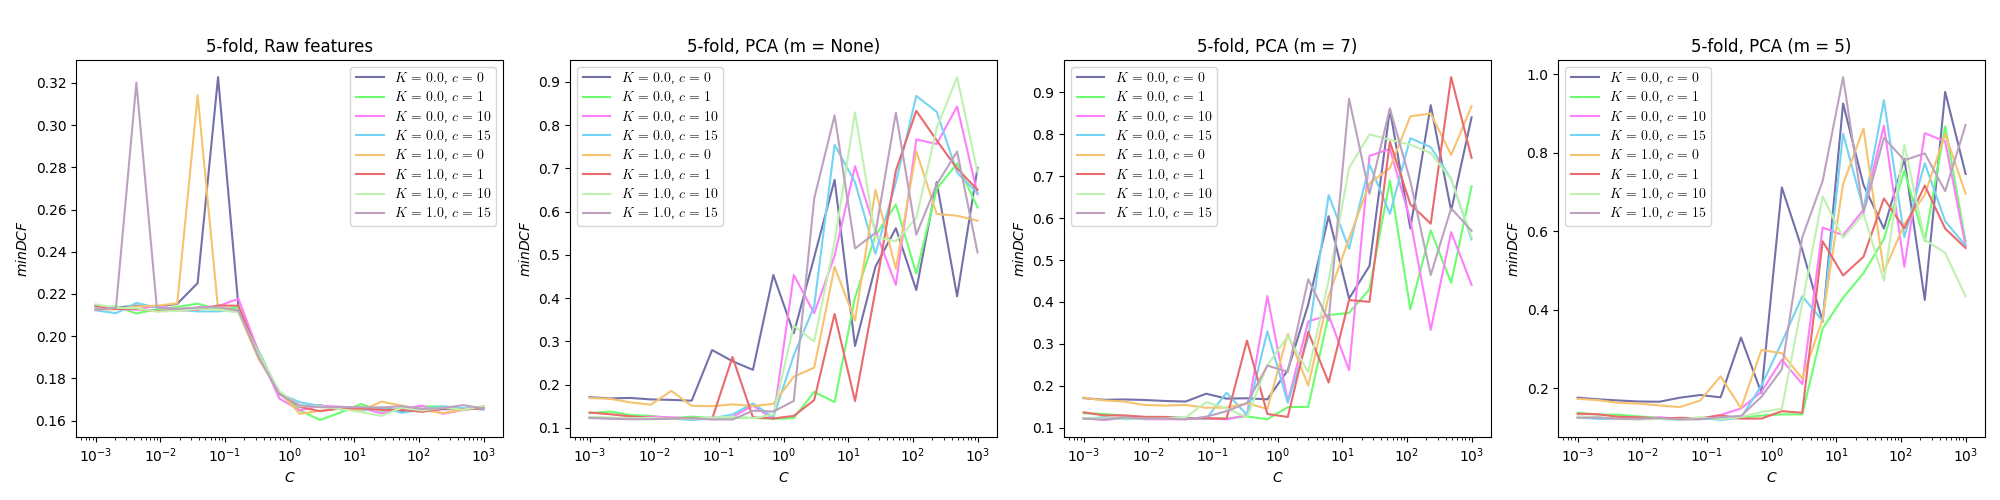
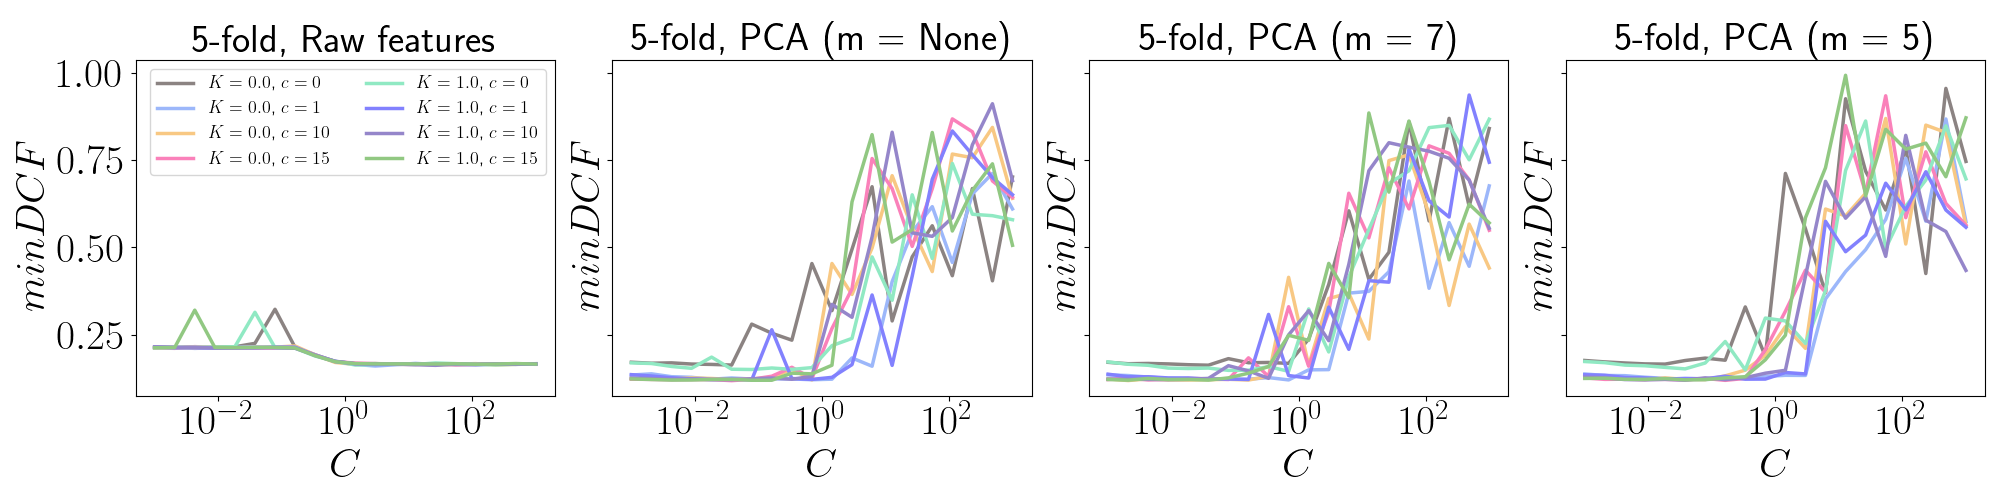
Minor changes + new plots

diff --git a/utils/plot_utils.py b/utils/plot_utils.py
@@ -196,31 +196,48 @@ def plot_tuningPolySVM():
     c_values = [0, 1, 10, 15]
 
     num_colors = len(K_values) * len(c_values)
-    colors = distinctipy.get_colors(num_colors, pastel_factor=0.7)
+    # colors = distinctipy.get_colors(num_colors, pastel_factor=0.7)
+
+    plt.rcParams.update({
+        "text.usetex": True,
+        "font.family": "sans-serif",
+        "font.sans-serif": ["Computer Modern Serif"],
+        "axes.titlesize": 28,
+        "axes.labelsize": 30,
+        "legend.fontsize": 13,
+        "xtick.labelsize": 30,
+        "ytick.labelsize": 30,
+    })
 
     i = 0
-    fig, axs = plt.subplots(1, 4)
-    # fig.suptitle('Poly SVM')
-    plt.rcParams['text.usetex'] = True
+    fig, axs = plt.subplots(1, 4, sharey="row")
     for m in m_values:
         hyperparameters = itertools.product(K_values, c_values)
         for j, (K, c) in enumerate(hyperparameters):
             DCFs = np.load(
                 f"../simulations/polySVM/K{str(K).replace('.', '-')}_c{str(c).replace('.', '-')}_PCA{str(m)}.npy")
-            axs[i].plot(C_values, DCFs, color=colors[j], label=rf"$K={K}$, $c={c}$")
+            axs[i].plot(C_values, DCFs, color=colors8[j], label=rf"$K={K}$, $c={c}$", linewidth=2.5)
             if (m == False):
                 axs[i].set_title(f'5-fold, Raw features')
             else:
                 axs[i].set_title(f'5-fold, PCA (m = {m})')
-            axs[i].legend()
+            if i == 0:
+                axs[i].legend(ncol=2)
             axs[i].set_xlabel(r'$C$')
             axs[i].set_ylabel(r'$minDCF$')
             axs[i].set_xscale('log')
+            axs[i].set_xticks([10 ** i for i in range(-2, 3, 2)])
         i += 1
     fig.set_size_inches(20, 5)
     fig.tight_layout()
     fig.subplots_adjust(top=0.88)
     fig.show()
+
+    label_params = axs[0].get_legend_handles_labels()
+    figl, axl = plt.subplots(figsize=(6.5, 7))
+    axl.axis(False)
+    axl.legend(*label_params, loc="center", bbox_to_anchor=(0.5, 0.5), prop={"size": 40})
+    figl.show()
 
 
 def plot_tuningRBFSVM():
@@ -229,7 +246,7 @@ def plot_tuningRBFSVM():
     K_values = [0.0, 1.0]
     gamma_values = [1e-2, 1e-3, 1e-4]
     i = 0
-    fig, axs = plt.subplots(1, 3)
+    fig, axs = plt.subplots(1, 3, sharey="all")
     # fig.suptitle('RBF SVM')
     plt.rcParams['text.usetex'] = True
 
@@ -250,6 +267,7 @@ def plot_tuningRBFSVM():
             axs[i].set_xlabel(r'$C$')
             axs[i].set_ylabel(r'$minDCF$')
             axs[i].set_xscale('log')
+            axs[i].set_xticks([10 ** i for i in range(-2, 3, 2)])
         i += 1
 
     fig.set_size_inches(15, 5)
@@ -473,13 +491,14 @@ def bayes_error_plots(classifier):
 
 
 if __name__ == '__main__':
-    # colors = distinctipy.get_colors(6, pastel_factor=0.7, colorblind_type='Deuteranomaly')
-    # print(colors)
-    colors = [(0.48702807223549177, 0.4242891647177821, 0.9480975665882982), (0.9146761531779931, 0.4970424422244128, 0.41460357267068376), (0.843602824944377, 0.6031154951690304, 0.9802318468625552), (0.5887251240359368, 0.9624135405893406, 0.4585532945832182), (0.422567523593921, 0.44218101996887993, 0.5516040738892886), (0.43399916426535, 0.7098723267606655, 0.6255076508970907)]
+    # colors8 = distinctipy.get_colors(8, pastel_factor=1, colorblind_type='Deuteranomaly')
+    # print(colors8)
+    # colors6 = [(0.48702807223549177, 0.4242891647177821, 0.9480975665882982), (0.9146761531779931, 0.4970424422244128, 0.41460357267068376), (0.843602824944377, 0.6031154951690304, 0.9802318468625552), (0.5887251240359368, 0.9624135405893406, 0.4585532945832182), (0.422567523593921, 0.44218101996887993, 0.5516040738892886), (0.43399916426535, 0.7098723267606655, 0.6255076508970907)]
+    colors8 = [(0.5450484248310105, 0.5130972742328073, 0.5102488831581509), (0.6109330873928905, 0.7193582681286009, 0.9814590256707204), (0.9727770320054765, 0.7854905796839438, 0.5145282365057959), (0.9806065670005477, 0.5066792697066322, 0.7311620666921056), (0.565920914907729, 0.9141080668353584, 0.7641066636691687), (0.5114677713143507, 0.5061193495393317, 0.9951605179132765), (0.5830073483609048, 0.5244350779880778, 0.7931264147573027), (0.5692188040526873, 0.7826586898074446, 0.5098679245540738)]
     # plot_lambda()
-    # plot_tuningPolySVM()
+    plot_tuningPolySVM()
     # plot_tuningRBFSVM()
-    plot_tuningLinearSVMUnbalanced()
+    # plot_tuningLinearSVMUnbalanced()
     # plot_tuning_LinearSVMBalanced()
 
     # print(os.path.abspath("../simulations/GMM/GMM_rawFeature-False_PCA7_diag.npy"))
